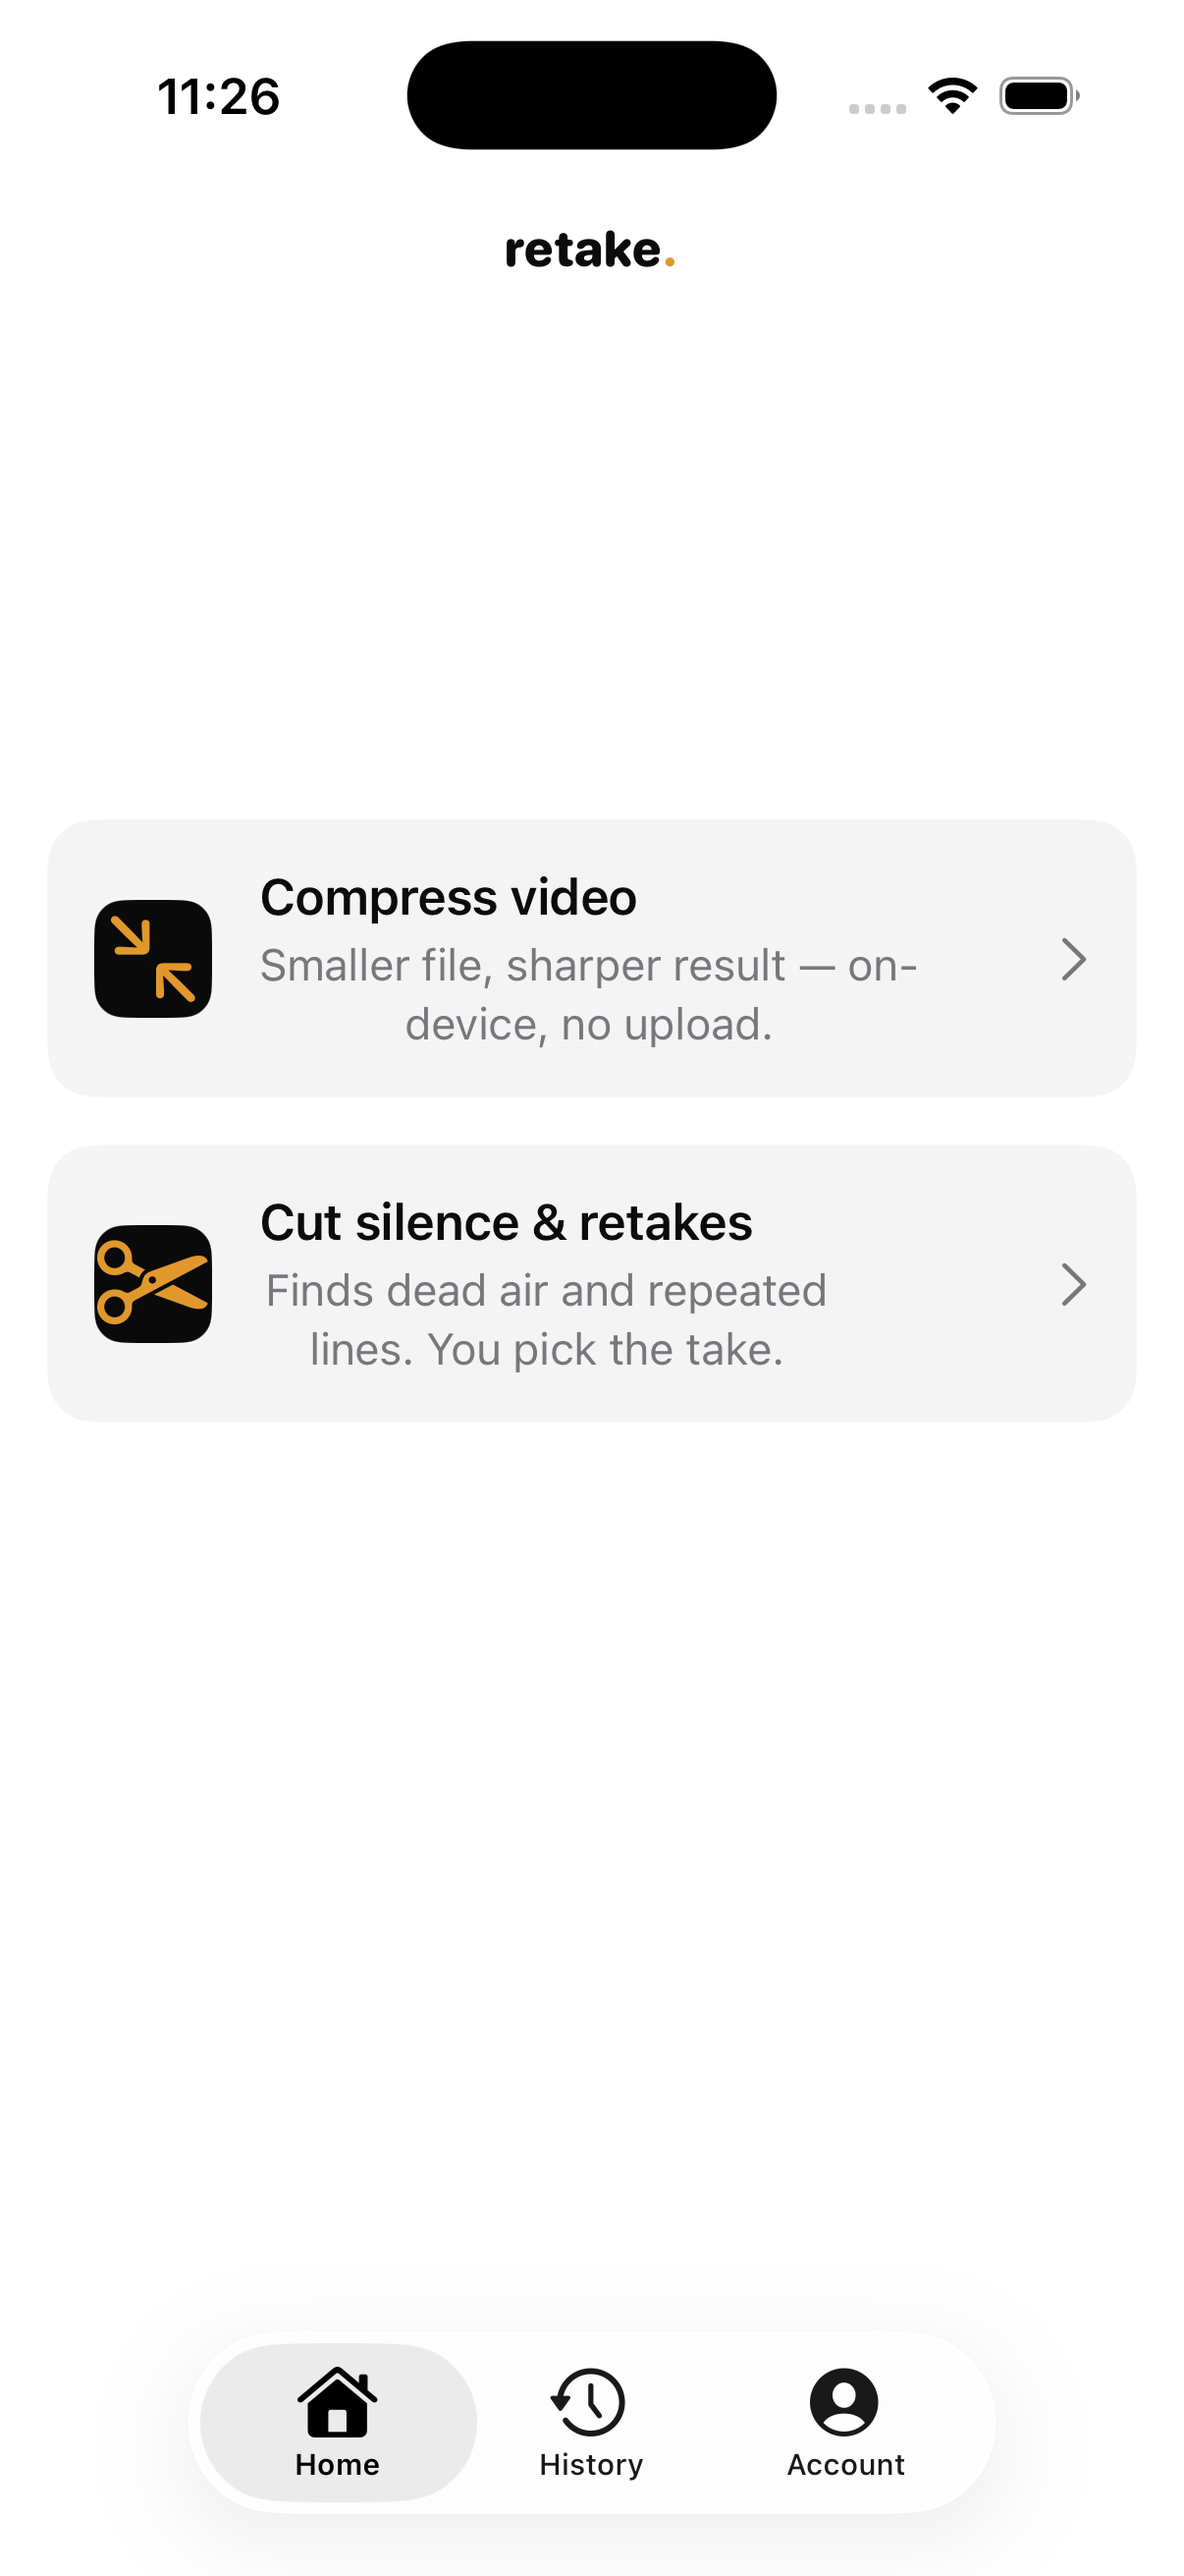
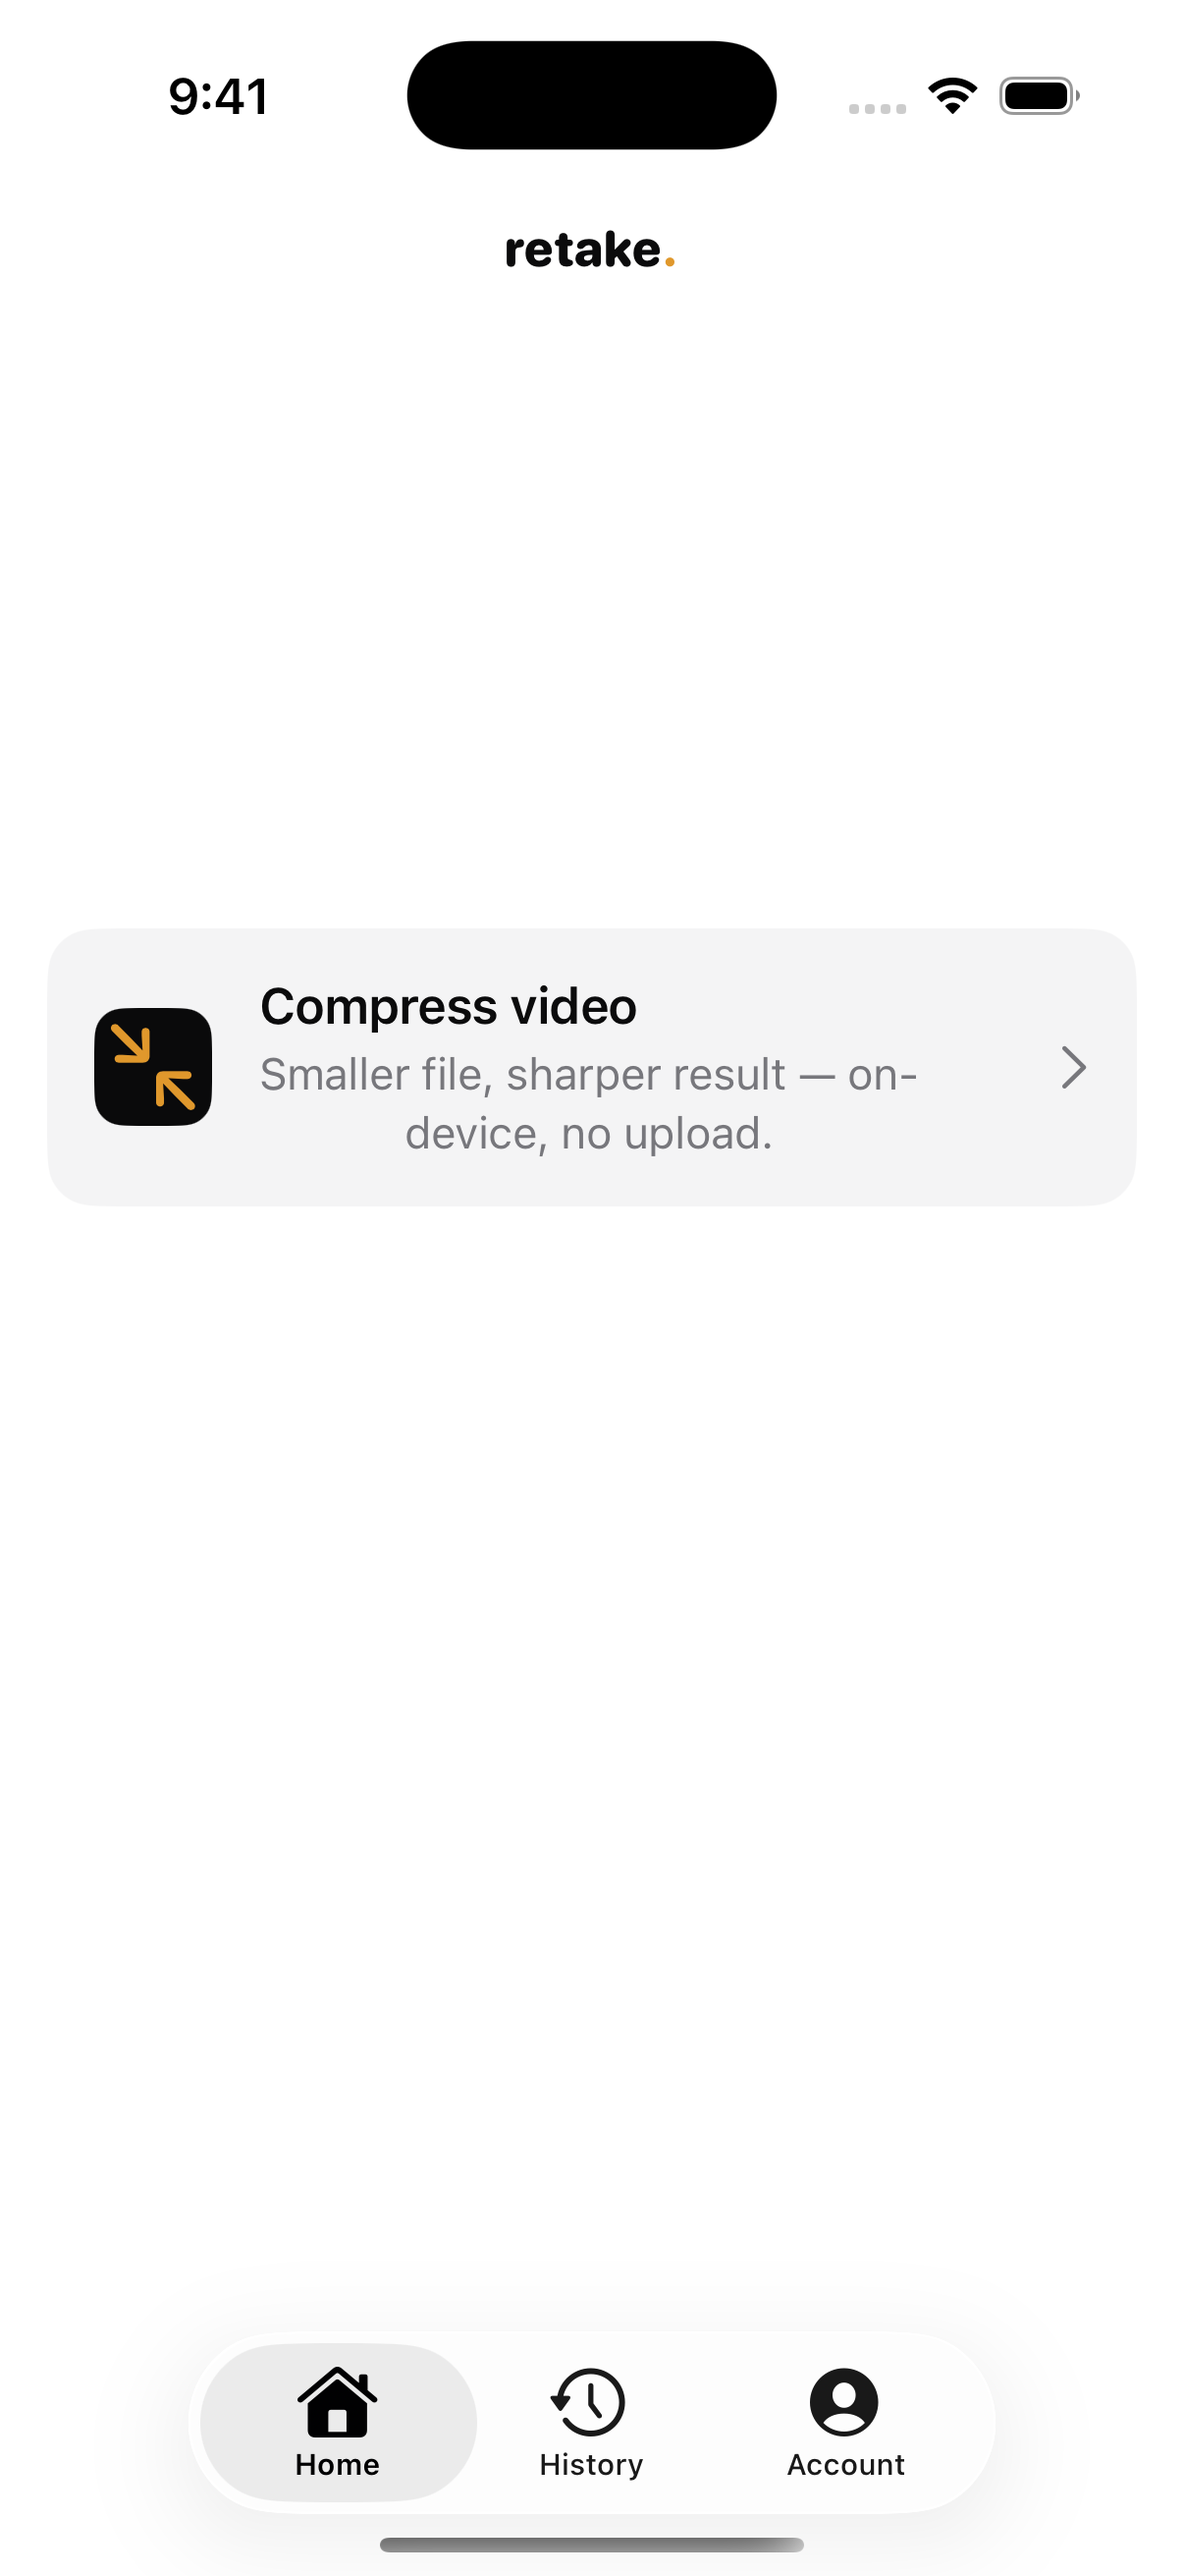
Update screenshots to match Compress-only Home, clarify Record/Cut as bonus
Fresh simulator captures (onboarding/login/home) reflect the current
single-card Home. README now states plainly that Compress is the app's
focus and Record/Cut are documented, working bonus features kept out
of in-app navigation rather than half-hidden. Test count bumped 28->30.

diff --git a/README.md b/README.md
@@ -9,7 +9,8 @@ Filming yourself on an iPhone means you almost always stumble a line, say it twi
 ## Features
 
 - **On-device video compression** — re-encodes to H.265/HEVC using the iPhone's hardware encoder (`hevc_videotoolbox`), with real-time VideoToolbox mode for faster exports. No upload, no server, no account required.
-- **Silence & retake detection** — transcribes the audio, finds silence gaps and repeated phrases, and surfaces a review screen where you pick which take to keep. Implemented end-to-end; currently hidden from Home while compression is polished first (see Status).
+- **Silence & retake detection** *(bonus, not in-app)* — transcribes the audio, finds silence gaps and repeated phrases, and surfaces a review screen where you pick which take to keep. Fully implemented and tested in isolation, but not linked from Home — see Status.
+- **Record with teleprompter** *(bonus, not in-app)* — native camera capture with an auto-scrolling script overlay, chained into Compress/Cut. Also implemented and not linked from Home.
 - **Delete original from Photos** (opt-in) — reclaim storage after compressing, without losing the source unless you choose to.
 - **Local run history** — every compress/cut session is logged on-device.
 - **Nine implemented screens** — splash, onboarding, auth, home, compress, processing, retake review, history, and account.
@@ -76,7 +77,7 @@ VideoCompressor/
   AccountStore.swift / AccountView.swift / HistoryStore.swift / HistoryView.swift
   VideoPicker.swift / PhotoLibrarySaver.swift / APIKeyStore.swift
   SupabaseAuthClient.swift / Secrets.swift.example
-VideoCompressorTests/         28 XCTest cases covering the pure-logic pipeline
+VideoCompressorTests/         30 XCTest cases covering the pure-logic pipeline
 docs/
   design-mockup.md             Visual identity + screen-by-screen spec
   screenshots/                  Simulator screenshots
@@ -84,11 +85,12 @@ docs/
 
 ## Status
 
-All 9 mockup screens are implemented and match the design spec. The build compiles cleanly and all 28 tests pass. It's been run and tested end-to-end in the iPhone 17 Simulator. Physical-device testing is still pending.
+All 9 mockup screens are implemented and match the design spec. The build compiles cleanly and all 30 tests pass. It's been run and tested end-to-end in the iPhone 17 Simulator. Physical-device testing is still pending.
+
+**The app's focus is Compress.** Home only surfaces the compression flow — the one that's been exercised end-to-end and is closest to production-ready. Record (native camera + teleprompter) and Cut (silence/retake review) are real, working features with their own views and pipelines, but they're intentionally kept out of the app's navigation and documented here as bonus/optional rather than presented as equally core. They're a one-line change away from being wired back into Home if that becomes the priority.
 
 Known limitations:
 
-- Home currently surfaces **Compress only** — Record (native camera + teleprompter) and Cut (silence/retake review) are fully implemented but temporarily hidden from the tab bar while compression is polished first. The underlying views and pipeline are untouched and easy to re-enable.
 - Compression presets and language settings in Account are currently display-only.
 - The delete-original-from-Photos flow and the full cut/retake pipeline haven't been verified end-to-end on a physical device with a real AssemblyAI key yet.
 - Not distributed on the App Store — sideloaded via Xcode.
